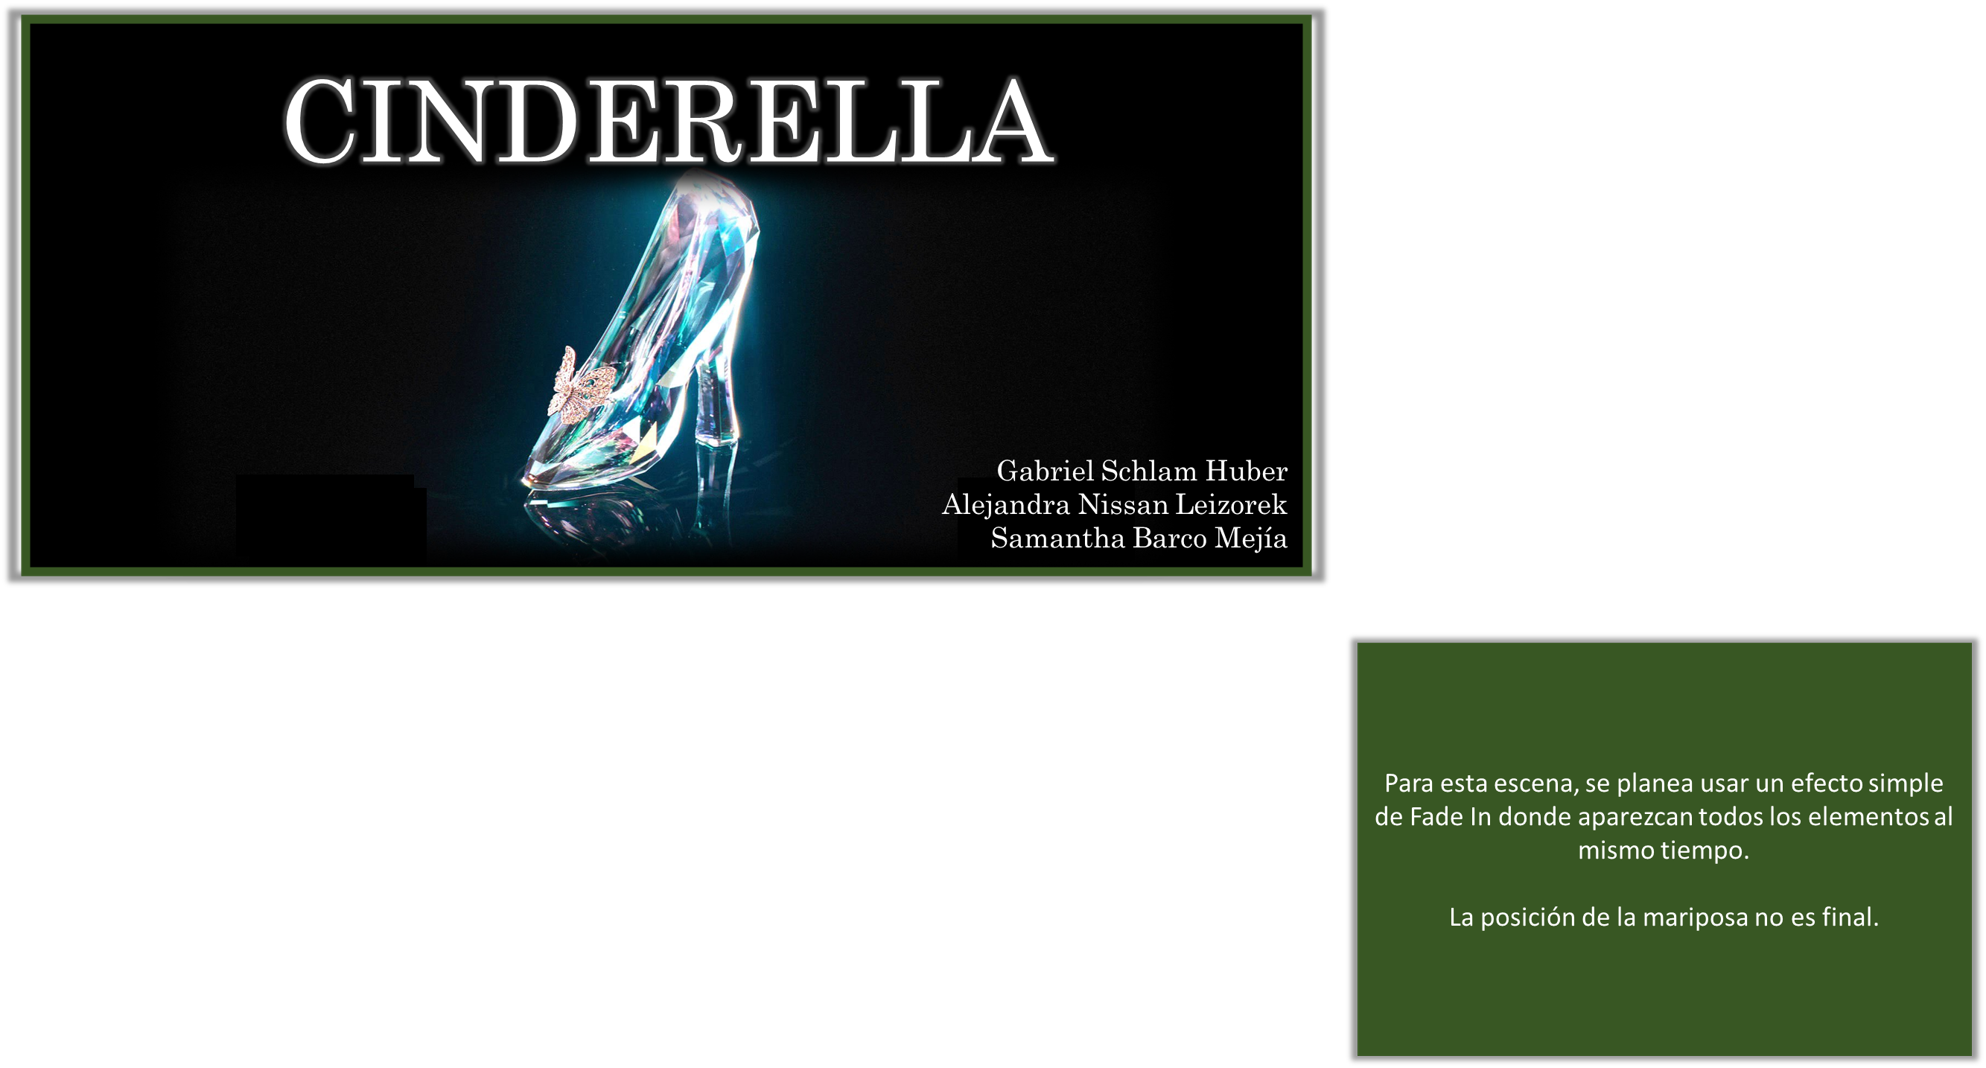
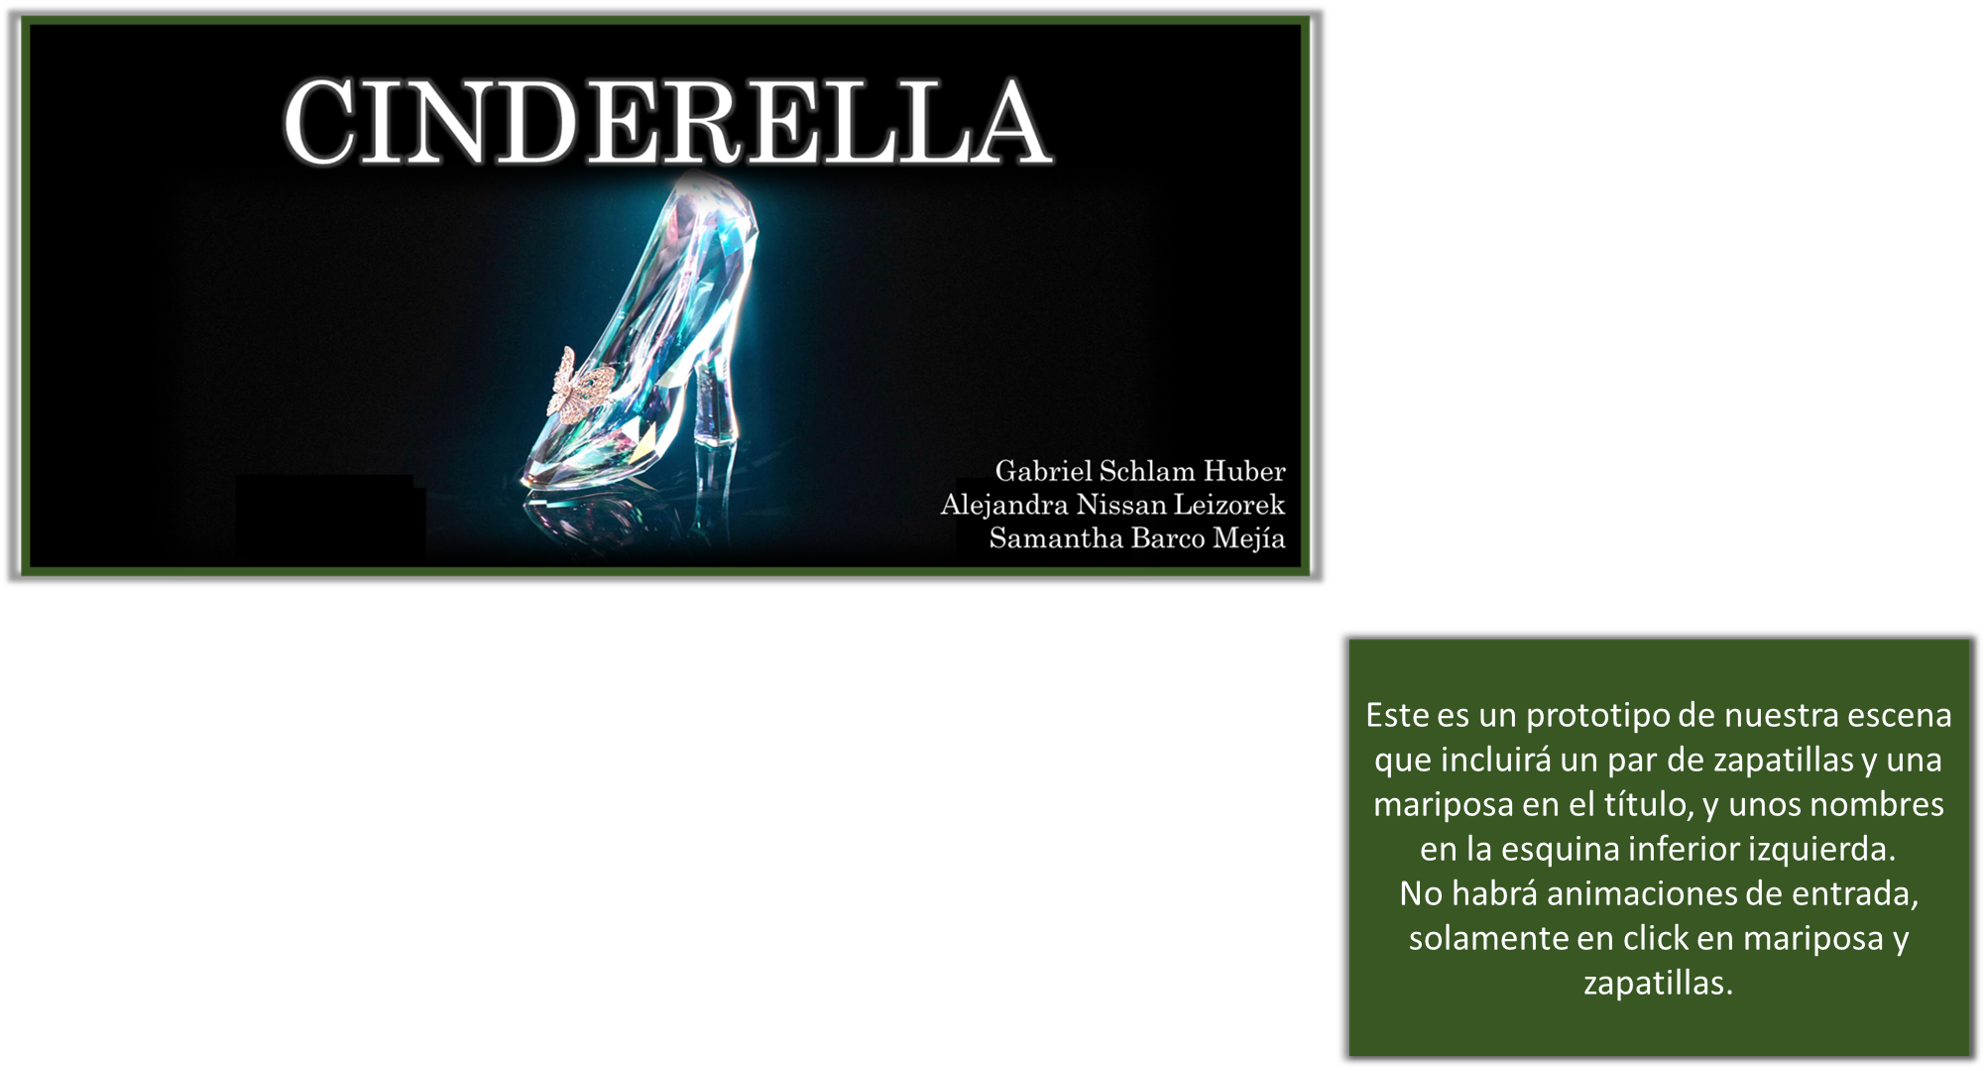
Readme edit

diff --git a/src/main.js b/src/main.js
@@ -95,9 +95,14 @@ function load3dModel(objModelUrl, mtlModelUrl, name, sceneObj, scale, x, y, z, r
 }
 
 // Function for loading OBJ 3d model without MTL file
+// Function to load obj models with no material
+// Crystal effect references: https://threejs.org/examples/?q=refra#webgl_materials_cubemap_refraction
+// https://threejs.org/examples/#webgl_materials_variations_standard
+// https://threejs.org/examples/?q=trans#webgl_materials_physical_transmission
 function loadOnly3dObjModel(objModelUrl, name, scale, x, y, z) 
 {
     var loader = new THREE.OBJLoader(manager);
+    // Parameters for the material to look like crystal
     const params = {
         color: 0xffffff,
         transmission: 0.60,
@@ -109,6 +114,8 @@ function loadOnly3dObjModel(objModelUrl, name, scale, x, y, z)
     loader.load(objModelUrl, function (object) {
         object.traverse( function (child){
             if(child.isMesh){
+                // These parameters allow th slippers to look transparent and like crystal
+                // https://threejs.org/docs/#api/en/materials/MeshPhysicalMaterial
                 child.material = new THREE.MeshPhysicalMaterial({
                     color: params.color,
 					metalness: 0,
@@ -131,16 +138,16 @@ function loadOnly3dObjModel(objModelUrl, name, scale, x, y, z)
         object.position.set(x,y,z);
         object.name = name;
         scenes[0].add(object);
-        // console.log("FBX");
-        // console.log(object);
     });
 }
 
 // Function for loading FBX 3d model
+// receives urls, name, scene, scale, position and rotation
 function load3dFbxModel(modelUrl, textureUrl, normalUrl, aoUrl, metalUrl, roughnessUrl, name, sceneObj, scale, x, y, z, rotationX, rotationY)
 {
     var loader = new THREE.FBXLoader(manager);
     loader.load(modelUrl, function (object) {
+        // Loads sent urls and material
         object.traverse( function (child){
             if(child.isMesh){
                 let texture = new THREE.TextureLoader(manager).load(textureUrl);
@@ -150,24 +157,21 @@ function load3dFbxModel(modelUrl, textureUrl, normalUrl, aoUrl, metalUrl, roughn
                 let roughness = null;
                 if(normalUrl != null){
                     normal = new THREE.TextureLoader(manager).load(normalUrl);
-                    // console.log("loaded normal", normalUrl)
                 }
                 if(aoUrl != null){
                     ao = new THREE.TextureLoader(manager).load(aoUrl);
-                    // console.log("loaded ao",aoUrl)
                 }
                 if(metalUrl != null){
                     metallic = new THREE.TextureLoader(manager).load(metalUrl);
-                    // console.log("loaded metal",metalUrl)
                 }
                 if(roughnessUrl != null){
                     roughness = new THREE.TextureLoader(manager).load(roughnessUrl);
-                    // console.log("loaded rough",roughnessUrl)
                 }
                 child.material = new THREE.MeshStandardMaterial( { map: texture, normalMap: normal, aoMap:ao, aoMapIntensity: 1, metalnessMap: metallic, metalness: 0,  roughnessMap: roughness, roughness: 0 } );
             }
         });
 
+        // scales, rotates, and sets the object
         object.scale.x = object.scale.y = object.scale.z = scale;
         object.position.set(x,y,z);
         if (rotationX) {
@@ -178,12 +182,11 @@ function load3dFbxModel(modelUrl, textureUrl, normalUrl, aoUrl, metalUrl, roughn
         }
         object.name = name;
         sceneObj.add(object);
-        // console.log("FBX");
-        // console.log(object);
     });
 }
 
 // Function for creating mesh for 2d characters
+// It receives an image address, measures, and position
 function createCharacterMesh( address, name, width, height, X, Y, Z ) 
 {
     let map = new THREE.TextureLoader(manager).load(address);
@@ -292,6 +295,8 @@ function createScene(canvas)
 
     /////////////////////////////////////////////////
     //       Scene 1                               //
+    // Story cover, cinderella slippers, name, and //
+    // butterfly.                                  //
     /////////////////////////////////////////////////
 
     sceneTemp = new THREE.Scene();
@@ -313,11 +318,10 @@ function createScene(canvas)
 
     // Loading butterfly https://www.pngegg.com/es/png-dktlp
     butterfly = createCharacterMesh("../models/2d_images/butterfly.png", 'butterfly' ,8,6,13,13,-12);
-    //butterfly.color.setHex(0xff00ff);
     butterfly.material.emissive.setHex(0x000000);
     sceneTemp.add(butterfly);
 
-    // Loading floor
+    // FFloor
     let geometry = new THREE.PlaneGeometry( 120, 100, 1 );
     let material = new THREE.MeshPhongMaterial( {color: 0x45b5e9, side: THREE.DoubleSide, reflectivity: 1} );
     let plane = new THREE.Mesh( geometry, material );
@@ -340,6 +344,8 @@ function createScene(canvas)
 
     /////////////////////////////////////////////////
     //       Scene 2                               //
+    // Cinderella and her step-family are in the   //
+    // living room for the introduction.           //
     /////////////////////////////////////////////////
 
     sceneTemp = new THREE.Scene();
@@ -347,32 +353,31 @@ function createScene(canvas)
     // Set the background image 
     sceneTemp.background = new THREE.TextureLoader(manager).load("../images/Backgrounds/scene2_background.jpg");
     
-    // Put in a ground plane to show off the lighting
-    // 727 x 902 px
     // Loading Cinderella's 2D object
     sceneTemp.add(createCharacterMesh("../models/2d_images/cinderella_cleaningOutline.png", 'cinderella_cleaning' ,12,15,-30,-5,-2));
     
-    // 470x496px
     // Loading Stepsisters' 2D objects
     sceneTemp.add(createCharacterMesh("../models/2d_images/stepsisters_normalOutline.png", 'stepsisters_normal' ,14,14,30,-5,0));
     
-    // 277x655 px
     // Loading Stepmother's 2D object
-    sceneTemp.add(createCharacterMesh("../models/2d_images/stepmother.png", 'stepmother', 7,15,30,-5,0.5));
+    sceneTemp.add(createCharacterMesh("../models/2d_images/stepmother.png", 'stepmother', 7,15,30,-5,1.5));
 
     // Loading Bubbles
+    //Creates a groups for the bubbles
     bubblesGroup = new THREE.Object3D;
     bubblesGroup.name = "bubbles";
+    // Sets different sizes and positions for the bubbles, and adds them to the group
     bubblesGroup.add(createCharacterMesh("../models/2d_images/bubble.png", 'bubble', 1.0,1.0,0,0,0));
     bubblesGroup.add(createCharacterMesh("../models/2d_images/bubble.png", 'bubble', 0.8,0.8,0.4,-1.1,0));
     bubblesGroup.add(createCharacterMesh("../models/2d_images/bubble.png", 'bubble', 0.8,0.8,-0.7,0.8,0));
     bubblesGroup.add(createCharacterMesh("../models/2d_images/bubble.png", 'bubble', 0.3,0.3,0.4,0.7,0));
     bubblesGroup.add(createCharacterMesh("../models/2d_images/bubble.png", 'bubble', 0.3,0.3,-0.6,-1.2,0));
+    // Adds the bubbles to the scenes
     sceneTemp.add(bubblesGroup);
     bubblesGroup.position.set(-10,-9.85,2);
 
     // Loading Mouse's 2D object
-    gusGus = createCharacterMesh("../models/2d_images/gusgus.png", 'gusgus', 3,4,6,-10,-1);
+    gusGus = createCharacterMesh("../models/2d_images/gusgus.png", 'gusgus', 3,4,6,-10,-2);
     gusGus.rotation.y = Math.PI;
     sceneTemp.add(gusGus);
     
@@ -644,7 +649,7 @@ function initAnimator()
     });
 }
 
-// Function for using raycasting for managing the user click on object
+// Function to use raycasting and managing the user click on object
 // Computer-Graphics/13_threejsInteraction/threejsInteraction.html
 // https://threejs.org/docs/#api/en/core/Raycaster.intersectObjects
 // https://riptutorial.com/three-js/example/17088/object-picking---raycasting
@@ -661,13 +666,10 @@ function raycast ( e )
     if(intersects.length > 0)
     {
         CLICKED = intersects[ intersects.length - 1 ].object;
-        //CLICKED.material.emissive.setHex( 0x00ff00 );
         playClickAnimations();
     }
     else 
     {
-        if ( CLICKED ) 
-            CLICKED.material.emissive.setHex( CLICKED.currentHex );
         CLICKED = null;
     }
 }
@@ -679,7 +681,7 @@ function playAnimations()
     switch (scene.name) {
         case "scene2":
             console.log("Escena 2");
-            // Animations
+            // Animations for the characters to enter the scene
             scene.children.forEach(element => {
                 switch (element.name) {
                     case "cinderella_cleaning":
@@ -694,6 +696,7 @@ function playAnimations()
                     case "gusgus":
                         enterAnimationX(0.125, 0.250, 30, 6, element);
                         break;
+                    // Animation for the text to iterate
                     case "textGroup":
                         textAnimation(0, 1, 10, 64, 0.8, element.children);
                         break;
@@ -853,14 +856,19 @@ function playAnimations()
 }
 
 // Function for playing animations on click
+// This function is called each time user clicks over an object.
 function playClickAnimations() 
 {
+    // There is a switch for scenes because each one has different animations
     switch (scene.name) {
+        //Each case determines which animation to play with an if, it depends on character name or parent name
         case "scene1":
             console.log("Escena 1",CLICKED.name);
+            // For this scene, if user clicks on the slippers they turn
             if (CLICKED.parent.name == "slipper") {
                 enterAnimationYRotation(0, 0.25, 0.5, -8, -8, -8, 0, 0.2, 0, Math.PI, 2*Math.PI, CLICKED.parent);
             }
+            // If user clicks on the butterfly, it goes to the beginning of the page and returns to its initial position
             if (CLICKED.name == "butterfly") {
                 zigzagAnimation(0.05,0.3,13,15,11,13,-20,CLICKED);
             }
@@ -868,6 +876,7 @@ function playClickAnimations()
         case "scene2":
             console.log("Escena 2", CLICKED.name);
             // Animations
+            // If user clicks the sofa, bubbles arise from the bucket
             if (CLICKED.parent.name == "sofa") {
                 for(i = 0; i< scene.getObjectByName("bubbles").children.length;i++)
                 {
@@ -876,12 +885,14 @@ function playClickAnimations()
             }
             switch(CLICKED.name)
             {
+                // If user clicks on Cinderella, bubbles arise from the bucket
                 case "cinderella_cleaning":
                     for(i = 0; i< scene.getObjectByName("bubbles").children.length;i++)
                     {
                         enterAnimationY(0, Math.random() + 0.1, 0, 30, scene.getObjectByName("bubbles").children[i]);
                     }
                     break;
+                // If user clicks on the stepsisters, Gus gus leaves the scene
                 case "stepsisters_normal":
                     outZigzagAnimation(0.05,0.3,-10,-9,6,-25, -1, 1,scene.getObjectByName("gusgus"));
                     break;
@@ -1014,6 +1025,10 @@ function playClickAnimations()
 
 /////////////////////////////////////////////////
 //    Enter Animations                         //
+// To reuse code, we created a group of        //
+// animations for all of our characters to     //
+// enter scenes. These ones also worked for on //
+// click animations.                           //
 /////////////////////////////////////////////////
 
 // Function for entering to the scene in X axis
@@ -1093,12 +1108,18 @@ function enterAnimationYRotation(t1, t2, t3, pos1_y, pos2_y, pos3_y, tiR, tfR, r
 
 /////////////////////////////////////////////////
 //    On Click Animations                      //
+// To reuse code, we created multiple anima-   //
+// tions with generi movements like zigzag,    //
+// rotations, and an infinity sign.            //
 /////////////////////////////////////////////////
 
 // Function for creating a Zig Zag Animation 
+// As parameters, it receives times, y-llimits, x start and end positions, and element to move 
 function zigzagAnimation(ti, tf, y_init, y_top, y_bottom, pos1_x, pos2_x, element){
     animator = new KF.KeyFrameAnimator;
     animator2 = new KF.KeyFrameAnimator;
+    // For the element to go up and down we divide the x range into three segments and time into six, one pint in time is one position in x
+    // As the element returns to its initial position, x is divided into 3 and not six
     timeJump = (tf-ti)/6;
     xJump = (pos2_x - pos1_x)/3;
     animator.init({ 
@@ -1107,16 +1128,19 @@ function zigzagAnimation(ti, tf, y_init, y_top, y_bottom, pos1_x, pos2_x, elemen
                 { 
                     keys:[0, ti, ti+timeJump, ti+timeJump*2, ti+timeJump*3, ti+timeJump*4, tf], 
                     values:[
+                            // Starting position
                             { x : pos1_x, y : y_init },    
                             { x : pos1_x + xJump, y : y_top },    
                             { x : pos1_x + xJump*2, y : y_bottom },
-                            { x : pos2_x, y : y_top },
+                            // Reach the x's limit and goes back to initiial position, alternates between y top andd bottom to create the zigzag
+                            { x : pos2_x, y : y_top }, 
                             { x : pos1_x + xJump*2, y : y_bottom },
                             { x : pos1_x + xJump, y : y_top },
+                            // Starting position again
                             { x : pos1_x, y : y_init },
                             ],
                     target: element.position
-                },
+                }
             ],
         loop: loopAnimation,
         duration: duration * 1000,
@@ -1125,15 +1149,19 @@ function zigzagAnimation(ti, tf, y_init, y_top, y_bottom, pos1_x, pos2_x, elemen
 }
 
 // Function for creating an out Zig Zag Animation
+// It works to create a zigzag animation ffor characters to leave the scene
 function outZigzagAnimation(ti, tf, y_init, y_bottom, pos1_x, pos2_x, z_init, z_end,element){
     animator = new KF.KeyFrameAnimator;
     animator2 = new KF.KeyFrameAnimator;
+    // For the element to go up and down we divide the x range into three segments and time into six, one pint in time is one position in x
+    // As the element returns to its initial position, x is divided into 3 and not six
     timeJump = (tf-ti)/6;
     xJump = (pos2_x - pos1_x)/3;
     animator.init({ 
         interps:
             [
                 { 
+                    // Generates the zigzag effect by alternating between y-top and y-bottom, and uses z to create a movement in depth
                     keys:[0, ti, ti+timeJump, ti+timeJump*2, ti+timeJump*3, ti+timeJump*4, ti+timeJump*5, tf], 
                     values:[
                             { y : y_init, z : z_init },    
@@ -1147,6 +1175,7 @@ function outZigzagAnimation(ti, tf, y_init, y_bottom, pos1_x, pos2_x, z_init, z_
                             ],
                     target: element.position
                 },
+                // As for x we use only 3 points in time
                 { 
                     keys:[0, ti, tf],
                     values:[
@@ -1162,7 +1191,6 @@ function outZigzagAnimation(ti, tf, y_init, y_bottom, pos1_x, pos2_x, z_init, z_
     });
     animator.start();
 }
-
 
 // Function for the mouse animation with rotation
 function AnimationRotationMouse(t1, t2, t3, pos1_x, pos2_x, pos3_x, pos4_x, pos1_z, pos2_z, pos3_z, pos4_z, rot1, rot2, rot3, element){
@@ -1229,6 +1257,9 @@ function danceAnimations(element)
 
 /////////////////////////////////////////////////
 //          Text Functions                     //
+// This section includes animations that allow //
+// us to manage texts. Including creation and  //
+// the animation.                              //
 /////////////////////////////////////////////////
 
 // Function for the text creation (textGeometry)

diff --git a/README.md b/README.md
@@ -13,7 +13,7 @@
 6. Habrá un total de seis escenas de la historia. A continuación se explicará cada una de ellas:
     * **Escena 1:**
     ![Escena 1](images/ScenesReadme/Scene1.png)
-    Esta escena será la portada, en ella lucirá la icónica zapatilla de cenicienta con y además una mariposa que estará postrada en la escena (quizá en el título). Para esta primera escena no queremos que la zapatilla y la mariposa entren, sino que siempre estará dentro para hacer lucir la portada. Además, estará el título y nuestros nombres.
+    Esta escena será la portada, en ella lucirá la icónica zapatilla de cenicienta con y además una mariposa que estará postrada cerca del título. Para esta primera escena no queremos que la zapatilla y la mariposa entren, sino que siempre estará dentro para hacer lucir la portada. Además, estará el título y nuestros nombres.
         
         **Objetos interactuables:**
         - Zapatilla: al presionarla esta rotará en y para lucir su increíble diseño. 
@@ -21,11 +21,11 @@
 
     * **Escena 2:**
     ![Escena 2](images/ScenesReadme/Scene2.png)
-    Esta escena ilustra lo infeliz que era Cenicienta, la escena comenzará vacía, posteriormente entrará Cenicienta con su cubeta de agua y luego las hermanastras y su madrastra. 
+    Esta escena ilustra lo infeliz que era Cenicienta, la escena comenzará con un sillón, mesa y cubeta, posteriormente entrará Cenicienta, luego madrastra y finalmente hermanastras. 
         
         **Objetos interactuables:**
-        - Cubeta con agua: cuando se presione esta sacará burbujas.
-        - Sillón: saldrá un ratón caminando. 
+        - Sillón y Cenicienta: cuando se presionen, la cubeta sacará burbujas.
+        - Hermanastras: Saldrá un ratón caminando detrás de su madre. 
 
     * **Escena 3:**
     ![Escena 3](images/ScenesReadme/Scene3.png)
@@ -84,6 +84,7 @@ Nuestro plan de trabajo se dividirá en diferentes sprints, con diferentes entre
 ## Referencias Modelos 3D
 **Escena 1:**
 * Mariposa: https://www.pngegg.com/es/png-dktlp
+* Zapatillas: https://www.cgtrader.com/items/177103/download-page
 
 **Escena 2:**
 * Mesa: https://sketchfab.com/3d-models/classic-coffee-table-0b151b371da847d3a2dd960f9339eef1
@@ -106,3 +107,21 @@ Nuestro plan de trabajo se dividirá en diferentes sprints, con diferentes entre
 * Columna: https://free3d.com/3d-model/white-column-44873.html
 * Textura columna: https://www.pinterest.es/pin/825495806689115334/
 * Príncipe y cenicienta: https://www.jing.fm/iclipt/Thmwx/
+
+## Referencias Modelos 2D
+**Por orden de parición**
+* Cenicienta limpiando: https://www.pinterest.es/pin/35465915803790189/
+* Madrastra feliz: https://webstockreview.net/image/cinderella-clipart-cinderella-stepmother/2361020.html
+* Hermanastras felices: https://www.disneyclips.com/images3/images/anastasia-drizella3.png
+* Gus Gus:
+* Cenicienta triste:
+* Madrastra baile: https://www.disneyclips.com/images3/images/anastasia-drizella.png
+* Hermanastras baile: https://www.disneyclips.com/images3/images/lady-tremaine.png
+* Jack Jack:
+* Hada Madrina: https://www.kindpng.com/imgv/xoiwTi_cinderella-fairy-godmother-the-walt-disney-company-cinderella/
+* Cenicienta baile: http://pngimg.com/download/83469
+* Principe baile: https://pnghut.com/png/9qk3rDJVwb/prince-charming-cinderella-grand-duke-clip-art-transparent-png
+* Cenicienta y Principe boda: https://www.nicepng.com/ourpic/u2q8e6i1u2y3w7u2_cinderella-clock-silhouette-midnight-google-search-cinderella-and/
+* Pájaros: https://www.pinterest.com.mx/pin/673640056751289629/
+* Ratones:
+* Otras referencias: https://www.disneyclips.com/images3/cinderella-ladytremaine.html
